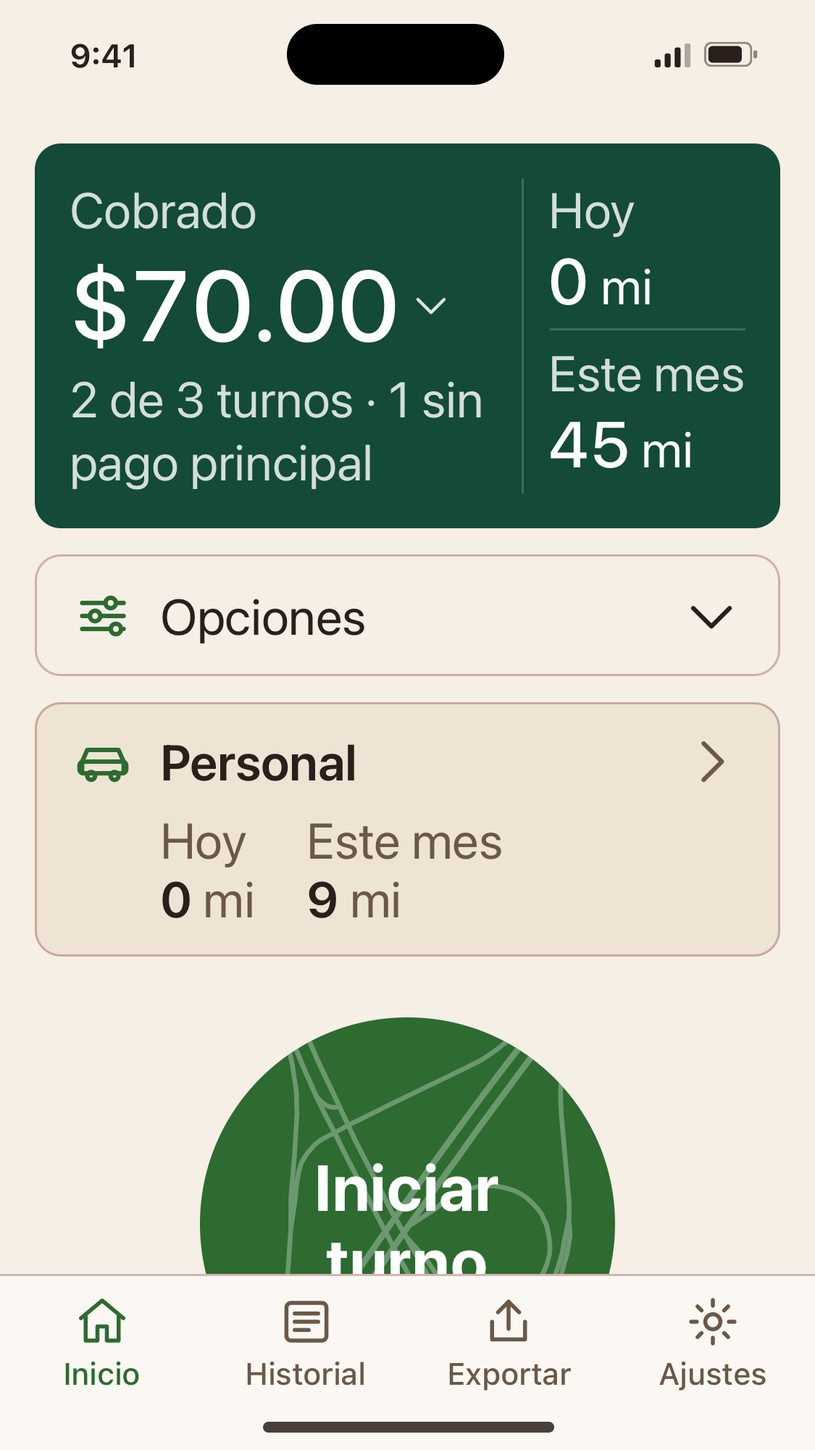
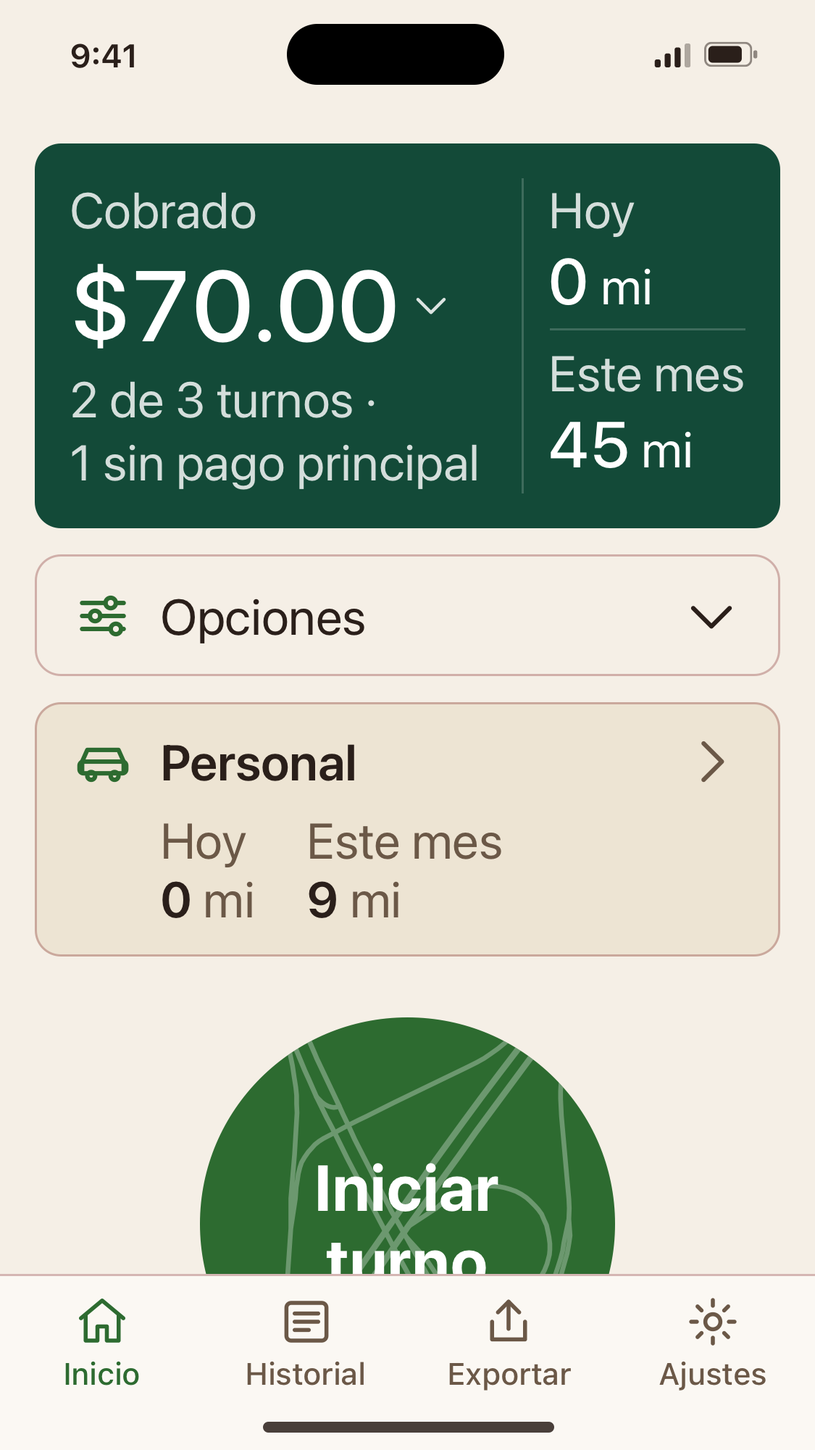
feat(design): apply the readable dark-mode green and one subtle box line to base 1
Liber approved both proposals from the base 1 pass ("Sí, los dos").

- Dark-mode action green #36853A (4.59:1 with white) as a token adjustment
  on top of V0, behind the "Verde oscuro" control (verde=legible). Base 0
  keeps #3F9442 from TOKENS-BASE.json; check-contrast checks v0+verde apart.
- The active-shift map, the close cards and the during-shift low-power
  notice take the subtle line Home uses; fields keep the strong one
  ("Bordes" control, bordes=suave).
- Base 1 turns both on. Audit: 1680/1680 states, no failures. The other
  14 capture sets are pixel-identical. Base 1 captures regenerated; the
  6 Nov ones predated the «principal» fix.

Changed region(s): [[0.0622, 0.2479, 0.5911, 0.3408], [0.4667, 0.2479, 0.4978, 0.2789]]

diff --git a/prototype/js/lab.js b/prototype/js/lab.js
@@ -9,9 +9,11 @@
   // Type scale. `lab` is this lab's iOS-like scale (15 and 13 px secondary text); `app` is what the shipped app uses:
   // only body 17, title2 22 and largeTitle 34 (SPEC's three sizes), so secondary text is 17 px there.
   const TIPO = { lab: 'Laboratorio', app: 'App · tres tamaños' };
+  const VERDE = { app: 'App · #3F9442', legible: 'Legible · #36853A' };
+  const BORDES = { app: 'App · dos líneas', suave: 'Una línea suave' };
   // Base 1: every Home piece Liber chose on top of the shipped app (base 0), with no festive decoration.
   // `base=1` in the link opens it whole; changing any of these controls leaves the base.
-  const BASE1 = { family: 'v0', home: 'sintitulo', card: 'c', bd: 'propuesta', opts: 'propuesta', personal: 'a', vivo: 'tablero', circ: 'fondo-corte', avisos: 'b', recientes: 'd', turno: 'b', cierre: 'a', tipo: 'app', deco: 'none' };
+  const BASE1 = { family: 'v0', home: 'sintitulo', card: 'c', bd: 'propuesta', opts: 'propuesta', personal: 'a', vivo: 'tablero', circ: 'fondo-corte', avisos: 'b', recientes: 'd', turno: 'b', cierre: 'a', tipo: 'app', verde: 'legible', bordes: 'suave', deco: 'none' };
   const isBase1 = (L) => Object.entries(BASE1).every(([k, v]) => L[k] === v);
   const HOME = {
     original: ['Original', 'con «Earnly Driver»'],
@@ -135,6 +137,8 @@
     if (TURNO[h.get('turno')]) L.turno = h.get('turno');
     if (CIERRE[h.get('cierre')]) L.cierre = h.get('cierre');
     if (TIPO[h.get('tipo')]) L.tipo = h.get('tipo');
+    if (VERDE[h.get('verde')]) L.verde = h.get('verde');
+    if (BORDES[h.get('bordes')]) L.bordes = h.get('bordes');
     if (['light', 'dark'].includes(h.get('theme'))) L.theme = h.get('theme');
     if (['en', 'es'].includes(h.get('lang'))) L.lang = h.get('lang');
     if (E.SCENARIOS[h.get('scenario')]) L.scenario = h.get('scenario');
@@ -156,7 +160,7 @@
       history.replaceState(null, '', '#' + b.toString());
       return;
     }
-    const h = new URLSearchParams({ view: L.view, family: L.family, b: L.familyB, home: L.home, card: L.card, cards: L.cards, desglose: L.bd, opciones: L.opts, personal: L.personal, personales: L.personals, vivo: L.vivo, circulo: L.circ, avisos: L.avisos, recientes: L.recientes, turno: L.turno, cierre: L.cierre, tipo: L.tipo, theme: L.theme, lang: L.lang, scenario: L.scenario, screen: screenId, width: L.width, text: L.textScale, deco: L.deco, motion: L.motion });
+    const h = new URLSearchParams({ view: L.view, family: L.family, b: L.familyB, home: L.home, card: L.card, cards: L.cards, desglose: L.bd, opciones: L.opts, personal: L.personal, personales: L.personals, vivo: L.vivo, circulo: L.circ, avisos: L.avisos, recientes: L.recientes, turno: L.turno, cierre: L.cierre, tipo: L.tipo, verde: L.verde, bordes: L.bordes, theme: L.theme, lang: L.lang, scenario: L.scenario, screen: screenId, width: L.width, text: L.textScale, deco: L.deco, motion: L.motion });
     if (L.solo) h.set('solo', '1');
     if (L.tall) h.set('tall', '1');
     history.replaceState(null, '', '#' + h.toString());
@@ -182,6 +186,8 @@
     $('c-turno').value = L.turno;
     $('c-cierre').value = L.cierre;
     $('c-tipo').value = L.tipo;
+    $('c-verde').value = L.verde;
+    $('c-bordes').value = L.bordes;
     $('c-theme').value = L.theme;
     $('c-lang').value = L.lang;
     $('c-scenario').value = L.scenario;
@@ -260,7 +266,7 @@
       return `
       <section class="frame-col" aria-label="${name}" style="--w:${L.width}px">
         ${L.solo ? '' : `<div class="frame-head"><strong>${name}</strong><span>${summary}</span></div>`}
-        <div class="phone" style="--w:${L.width}px; --h:${L.tall ? 2200 : HEIGHT[L.width]}px" data-slot="${i}" data-family="${f}" data-home="${home}" data-card="${card}" data-bd="${bd}" data-opts="${opt}" data-personal="${per}" data-vivo="${vivo}" data-circ="${circ}" data-avisos="${aviso}" data-recientes="${rec}" data-turno="${tur}" data-cierre="${cie}" data-tipo="${L.tipo}">
+        <div class="phone" style="--w:${L.width}px; --h:${L.tall ? 2200 : HEIGHT[L.width]}px" data-slot="${i}" data-family="${f}" data-home="${home}" data-card="${card}" data-bd="${bd}" data-opts="${opt}" data-personal="${per}" data-vivo="${vivo}" data-circ="${circ}" data-avisos="${aviso}" data-recientes="${rec}" data-turno="${tur}" data-cierre="${cie}" data-tipo="${L.tipo}" data-verde="${L.verde}" data-bordes="${L.bordes}">
           <div class="app" data-family="${f}" data-theme="${L.theme}"></div>
         </div>
       </section>`;
@@ -319,6 +325,8 @@
     L.turno = $('c-turno').value;
     L.cierre = $('c-cierre').value;
     L.tipo = $('c-tipo').value;
+    L.verde = $('c-verde').value;
+    L.bordes = $('c-bordes').value;
     L.theme = $('c-theme').value;
     L.lang = $('c-lang').value;
     L.scenario = $('c-scenario').value;
@@ -331,7 +339,7 @@
       L.familyB = Object.keys(FAMS).find((f) => f !== L.family);
     }
     if (prev.scenario !== L.scenario || prevScreen !== screenId) E.jump(screenId);
-    if (prev.view !== L.view || prev.family !== L.family || prev.familyB !== L.familyB || prev.home !== L.home || prev.card !== L.card || prev.cards !== L.cards || prev.bd !== L.bd || prev.opts !== L.opts || prev.personal !== L.personal || prev.personals !== L.personals || prev.vivo !== L.vivo || prev.circ !== L.circ || prev.avisos !== L.avisos || prev.recientes !== L.recientes || prev.turno !== L.turno || prev.cierre !== L.cierre || prev.tipo !== L.tipo || prev.width !== L.width) buildStage();
+    if (prev.view !== L.view || prev.family !== L.family || prev.familyB !== L.familyB || prev.home !== L.home || prev.card !== L.card || prev.cards !== L.cards || prev.bd !== L.bd || prev.opts !== L.opts || prev.personal !== L.personal || prev.personals !== L.personals || prev.vivo !== L.vivo || prev.circ !== L.circ || prev.avisos !== L.avisos || prev.recientes !== L.recientes || prev.turno !== L.turno || prev.cierre !== L.cierre || prev.tipo !== L.tipo || prev.verde !== L.verde || prev.bordes !== L.bordes || prev.width !== L.width) buildStage();
     syncControls();
     writeHash();
     E.render();

diff --git a/prototype/js/app.js b/prototype/js/app.js
@@ -17,7 +17,7 @@
   }
 
   const state = {
-    lab: { view: 'single', family: 'v0', familyB: 'v1', home: 'original', card: 'actual', cards: 'actual,c', bd: 'actual', opts: 'actual', personal: 'actual', personals: 'actual,a,b', vivo: 'linea', circ: 'actual', avisos: 'actual', recientes: 'lab', turno: 'lab', cierre: 'lab', tipo: 'lab', theme: 'light', lang: 'en', scenario: 'partial', width: 390, textScale: 1, deco: 'none', motion: 'normal', solo: false },
+    lab: { view: 'single', family: 'v0', familyB: 'v1', home: 'original', card: 'actual', cards: 'actual,c', bd: 'actual', opts: 'actual', personal: 'actual', personals: 'actual,a,b', vivo: 'linea', circ: 'actual', avisos: 'actual', recientes: 'lab', turno: 'lab', cierre: 'lab', tipo: 'lab', verde: 'app', bordes: 'app', theme: 'light', lang: 'en', scenario: 'partial', width: 390, textScale: 1, deco: 'none', motion: 'normal', solo: false },
     data: null,
     ui: null
   };

diff --git a/prototype/index.html b/prototype/index.html
@@ -81,6 +81,12 @@
       <label>Letra
         <select id="c-tipo"><option value="lab">Laboratorio</option><option value="app">App · tres tamaños</option></select>
       </label>
+      <label>Verde oscuro
+        <select id="c-verde"><option value="app">App · #3F9442</option><option value="legible">Legible · #36853A</option></select>
+      </label>
+      <label>Bordes
+        <select id="c-bordes"><option value="app">App · dos líneas</option><option value="suave">Una línea suave</option></select>
+      </label>
       <label>Marcos
         <select id="c-personals"><option value="actual,a,b">Actual, A y B</option><option value="actual,a">Actual y A</option><option value="a,b">A y B</option></select>
       </label>

diff --git a/prototype/css/app.css b/prototype/css/app.css
@@ -821,3 +821,7 @@
   --size-footnote: var(--size-body); --size-caption: var(--size-body);
   --size-title3: var(--size-title2); --size-title1: var(--size-title2); --size-result-figure: var(--size-title2);
 }
+
+/* Base 1 (Liber, 7 nov): every box takes the subtle line Home already uses. Fields keep the strong one,
+   which a field needs (3 : 1 against its surface) to read as a field. */
+.phone[data-bordes="suave"] > .app[data-family="v0"] :is(.card, .map, .notice-card) { border-color: var(--color-card-border-subtle) !important; }

diff --git a/prototype/css/tokens.css b/prototype/css/tokens.css
@@ -301,3 +301,13 @@
   --color-tab-bar: #1B1612;
   --color-chip-bg: rgba(232,167,69,0.12);
 }
+
+/* Adjustment: Readable dark-mode green */
+.phone[data-verde="legible"] > .app[data-family="v0"] {
+  --color-action: #2D6B30;
+  --color-map-start: #2D6B30;
+}
+.phone[data-verde="legible"] > .app[data-family="v0"][data-theme="dark"] {
+  --color-action: #36853A;
+  --color-map-start: #36853A;
+}

diff --git a/prototype/BASE-1.md b/prototype/BASE-1.md
@@ -1,6 +1,6 @@
 # Base 1: la pasada final de Inicio
 
-6 nov 2026. Rama `design/home-sin-titulo-2026-10-27`.
+6 nov 2026; el 7 nov Liber aprobó el verde en oscuro y la línea suave. Rama `design/home-sin-titulo-2026-10-27`.
 
 - **Base 0:** la app publicada (2.0.3).
 - **Base 1:** todo lo que Liber eligió encima de la base 0. Es una base fija y no lleva ninguna decoración de fiestas.
@@ -29,6 +29,8 @@ En el laboratorio, «tokens» también son los colores y radios de `design-token
 | Turno en curso | B sin «Trackeando», sin cambio de espacio | [HOME-TURNO-ACTIVO.md](HOME-TURNO-ACTIVO.md) |
 | Cierre | A · Marca las apps, con la lista filtrada | [CIERRE-TURNO.md](CIERRE-TURNO.md), [CIERRE-COMBINACIONES.md](CIERRE-COMBINACIONES.md) |
 | Letra | La de la app: tres tamaños | ver abajo |
+| Verde oscuro | Legible · #36853A | ver abajo |
+| Bordes | Una línea suave; los campos, la fuerte | ver abajo |
 | Decoración | Ninguna | |
 
 ## Lo que cambia al verla junta: la letra de la app
@@ -140,25 +142,35 @@ En cada estado se comprueba:
    - En inglés, con 320 px y texto al 200 %, la palabra «undercounted.» del aviso de ahorro de batería durante el turno no cabía en la línea y empujaba el texto fuera de la caja.
    - Ahora la palabra se parte, como hace `Text` en SwiftUI.
 
-## Queda para que decidas
+## Aprobado el 7 nov: el verde y los bordes
 
-1. **El verde de los botones en oscuro.**
-   - «Listo» y «Guardar turno» llevan letra blanca sobre el verde de la app en oscuro (`ActionPositive`, #3F9442). Eso da 3,80 : 1, y el mínimo para su tamaño es 4,5 : 1.
-   - Viene de la base 0: está así en la app publicada, y el comprobador del laboratorio ya lo marcaba como heredado.
-   - **Propuesta:** #36853A en oscuro, que da 4,59 : 1. El claro, #2D6B30, no cambia.
-   - Sería un color nuevo en la app, en iOS y Android, con su fila en PARITY.md. No se ha tocado.
-2. **Dos grosores de borde.**
-   - Las cajas de Inicio y la tarjeta del turno en curso llevan la línea suave: el granate al 30 %.
-   - El mapa del turno en curso y las tarjetas del cierre llevan la línea fuerte de la base 0.
-   - En la pantalla del turno se ven juntas: la tarjeta con línea suave y el mapa, justo debajo, con la fuerte.
-   - **Propuesta:** línea suave en el mapa y en las tarjetas del cierre. Los campos donde se escribe mantienen la fuerte, porque un campo necesita al menos 3 : 1 para verse como campo. No se ha tocado.
-3. **Observaciones, sin propuesta de cambio:**
-   - **En el SE, durante un viaje personal,** el círculo queda cortado por las pestañas: se ve la mitad de arriba y se puede tocar. Para que entrara habría que quitar unos 60 px de arriba, más de lo que se gana achicando el círculo.
-   - **En el cierre, la pregunta del cobro va debajo del resumen del turno,** igual que en la app. En el SE se ve el resumen y el principio de la pregunta. Si se quisiera la pregunta primero, sería cambiar el orden de la base 0.
+Liber aprobó las dos propuestas de la pasada. Cada una tiene su control en el laboratorio, como la letra, para comparar con la app publicada. La base 1 las trae puestas y la base 0 sigue igual.
+
+1. **El verde de los botones en oscuro** (control «Verde oscuro → Legible · #36853A», `verde=legible`).
+   - En oscuro, «Listo» y «Guardar turno» llevaban letra blanca sobre #3F9442: 3,80 : 1, por debajo del 4,5 : 1 que pide su tamaño. Venía de la base 0.
+   - El círculo «Iniciar turno» usa el mismo verde. Con su letra grande ya pasaba (3 : 1), y ahora tiene más margen.
+   - Ahora el verde es #36853A en oscuro: 4,59 : 1. El claro, #2D6B30, no cambia (6,45 : 1).
+   - El punto de salida del mapa usa el mismo verde en la app (`ActionPositive`), así que también cambia.
+   - Sobre las tarjetas, el verde como icono o contorno queda en 3,33 : 1; para gráficos el mínimo es 3 : 1.
+   - Está en `design-tokens.json`, en `adjustments.verde`. El comprobador de contraste lo revisa aparte («v0+verde»), sin la excepción de lo heredado.
+2. **Una sola línea para las cajas** (control «Bordes → Una línea suave», `bordes=suave`).
+   - Ahora llevan la línea suave de Inicio (el granate al 30 %):
+     - el mapa del turno en curso;
+     - las tarjetas del cierre: resumen, cobro, resultado y estación;
+     - el aviso de batería baja durante el turno. No estaba en la propuesta, pero va en la misma pantalla, entre la tarjeta y el mapa. Sin él, volvían a verse las dos líneas juntas.
+   - **Los campos donde se escribe mantienen la fuerte,** porque un campo necesita al menos 3 : 1 para verse como campo. También los botones secundarios y las casillas de la lista de apps, que llevan su propio color.
+   - Revisado en las 35 pantallas: la línea fuerte ya solo queda en los campos.
+
+**Observaciones, sin propuesta de cambio:**
+
+- **En el SE, durante un viaje personal,** el círculo queda cortado por las pestañas: se ve la mitad de arriba y se puede tocar. Para que entrara habría que quitar unos 60 px de arriba, más de lo que se gana achicando el círculo.
+- **En el cierre, la pregunta del cobro va debajo del resumen del turno,** igual que en la app. En el SE se ve el resumen y el principio de la pregunta. Si se quisiera la pregunta primero, sería cambiar el orden de la base 0.
 
 ## Comprobación
 
-- **Auditoría:** 1680 de 1680 estados aplicados. El único fallo que queda, en 88 estados, es el verde de los botones en oscuro: oscuro, texto al 100 %, «Listo» y «Guardar turno». Es el punto 1 de arriba.
+- **Auditoría:** 1680 de 1680 estados aplicados.
+  - **6 nov:** el único fallo, en 88 estados, era el verde de los botones en oscuro: oscuro, texto al 100 %, «Listo» y «Guardar turno».
+  - **7 nov, con el verde y los bordes aprobados:** ningún fallo en los 1680 estados.
 - **Control negativo:** 10 de 10.
   - Ocho errores metidos a propósito se detectaron con el mensaje previsto:
     - una página más ancha que la pantalla;
@@ -176,13 +188,19 @@ En cada estado se comprueba:
     - a 320 px ahora se parte por el punto;
     - en una línea, el espacio tras el punto se mueve menos de 1 px.
   - Las capturas guardadas de esas vistas no se regeneraron, porque son historial.
-- **Tokens, contraste y SHA256SUMS:** sin cambios. El contraste solo marca el verde heredado de la base 0. `screens/`, `screens.json`, `TOKENS-BASE.json` y `SHA256SUMS` no se tocaron.
+  - **7 nov:** las 150 capturas de las otras 14 vistas, generadas otra vez con el verde y los bordes nuevos, salen idénticas píxel a píxel. Los dos ajustes solo actúan en la base 1.
+- **Tokens, contraste y SHA256SUMS:**
+  - Los tokens solo cambian por el ajuste nuevo; la base 0 sigue igual que `TOKENS-BASE.json`.
+  - El contraste solo marca el verde heredado de la base 0. El ajuste da 4,59 : 1 en oscuro.
+  - SHA256SUMS: 91 de 91. `screens/`, `screens.json`, `TOKENS-BASE.json` y `SHA256SUMS` no se tocaron.
 - **No se ejecutó** `check-ui.cjs` (Chromium), porque Playwright no está instalado. La auditoría de WebKit lo sustituye.
 - **No probado:** iOS, Apple Maps real, VoiceOver, Dynamic Type real ni la tipografía SF exacta. El navegador aproxima.
 
 ## Capturas
 
 En `captures/home-base-1/`; se regeneran con `swift prototype/tools/capture-home-webkit.swift base-1`.
+
+Se regeneraron el 7 nov, con el verde y los bordes. Las del 6 nov se habían hecho antes de corregir «principal» y lo seguían mostrando solo en su línea; las de ahora ya llevan la corrección.
 
 - **Inicio a 390:** claro y oscuro.
 - **Inicio en el SE:** con texto al 100 % y al 135 %.
@@ -200,7 +218,9 @@ En `captures/home-base-1/`; se regeneran con `swift prototype/tools/capture-home
   - los avisos con `Text`, que ya parte las palabras largas;
   - el resto de cada pieza está en su documento.
 - **Lo que no cambia:** la letra ya es la de la app (cuerpo, título 2 y título grande), así que no hay tamaños nuevos.
-- **Los colores:** solo si Liber aprueba el verde en oscuro y los bordes suaves.
+- **Los colores, aprobados por Liber:**
+  - `ActionPositive` en oscuro pasa a #36853A, en iOS (`Assets.xcassets`) y en Android (`colors.xml`) a la vez; el claro no cambia;
+  - el mapa del turno y las tarjetas del cierre pasan a la línea suave que ya usa Inicio; los campos siguen con la fuerte.
 - **Lo de siempre:**
   - SPEC §4.3 (Inicio), §4.4 (turno en curso) y §4.5 (cierre);
   - PARITY.md y su `docs/parity`;

diff --git a/prototype/README.md b/prototype/README.md
@@ -14,7 +14,7 @@ Este es un laboratorio navegable en HTML, CSS y JavaScript con datos sintéticos
 | Control | Qué hace |
 |---|---|
 | Vista | Muestra una familia, compara dos lado a lado, enseña las cuatro con la misma pantalla y los mismos datos, «Original y Sin título»: la misma familia dos veces, con y sin el rótulo de Inicio, «Tarjeta verde»: la tarjeta actual y C, «Tarjeta abierta»: el desglose de C actual y la propuesta, «Opciones»: Opciones actual y la propuesta, «Personal»: la fila Personal actual, A y B, «Personal en marcha»: tres formas de mostrar un viaje personal en curso, «Iniciar turno»: el círculo actual y el Fondo, «Contraste en oscuro»: el Fondo, Corte y Tenue, «Avisos»: los avisos de hoy y las propuestas A, B y C, «Recientes»: la tarjeta de la app y las propuestas A, B, C y D, «Turno activo»: la pantalla del turno en curso de la app y las propuestas A, B y C, «Turno activo · espacio de B»: B, Mapa con tope y Más junto, o «Cierre del turno»: el cierre de la app y las propuestas A, B y C |
-| Base | «Base 1 (elegida)» pone de una vez todo lo elegido en Inicio, el turno en curso y el cierre, con la letra de la app y sin decoración (`base=1` en el enlace). Al cambiar cualquier pieza pasa a «A medida»; ver [BASE-1.md](BASE-1.md) |
+| Base | «Base 1 (elegida)» pone de una vez todo lo elegido en Inicio, el turno en curso y el cierre, con la letra de la app, el verde legible en oscuro, una sola línea suave y sin decoración (`base=1` en el enlace). Al cambiar cualquier pieza pasa a «A medida»; ver [BASE-1.md](BASE-1.md) |
 | Familia / Comparar con | V0 Actual, V1 Esencial, V2 Claridad, V3 Estudio |
 | Inicio | Original o Sin título (sin «Earnly Driver» arriba). Solo afecta a Inicio; ver [HOME-SIN-TITULO.md](HOME-SIN-TITULO.md) |
 | Tarjeta / Tarjetas | Tarjeta verde de Inicio: la actual o C · Dos zonas (solo V0). La vista «Tarjeta verde» las pone lado a lado con Inicio sin título; ver [HOME-TARJETA-VERDE.md](HOME-TARJETA-VERDE.md) |
@@ -32,6 +32,8 @@ Este es un laboratorio navegable en HTML, CSS y JavaScript con datos sintéticos
 | Pantalla | Salta a uno de los estados de ejemplo, incluidos los cuatro de viaje personal en marcha (con Personal A) y los de avisos (sin avisos, ubicación apagada, ahorro de batería, dos avisos y Personal sin Movimiento) y el último turno sin ruta, y los del turno en curso (en marcha, buscando ubicación, ahorro de batería, turno largo y la pregunta de terminar), y los del cierre con otras apps y con un turno de Uber. Después se puede navegar normalmente por la app |
 | Ancho | 320 px (solo prueba), 375 × 667 (iPhone SE, el más pequeño de iOS 18), 390 o 430 px |
 | Letra | Laboratorio (por defecto; textos secundarios a 15 px) o App · tres tamaños: cuerpo 17, título 2 22 y título grande 34, como la app publicada (`tipo=app`; la base 1 la usa) |
+| Verde oscuro | App · #3F9442 (por defecto) o Legible · #36853A: el verde de los botones en oscuro, 4,59 : 1 con letra blanca (`verde=legible`; la base 1 lo usa). Solo en V0 |
+| Bordes | App · dos líneas (por defecto) o Una línea suave: el mapa del turno, las tarjetas del cierre y el aviso del turno toman la línea suave de Inicio; los campos siguen con la fuerte (`bordes=suave`; la base 1 la usa). Solo en V0 |
 | Texto | 100 %, 135 % o 200 %. Aproxima Dynamic Type/AX; no equivale a iOS |
 | Decoración | Muestra opcional de Halloween o Navidad. Está apagada por defecto y no tapa controles |
 

diff --git a/prototype/DECISIONES.md b/prototype/DECISIONES.md
@@ -21,7 +21,7 @@ Las cuatro familias comparten datos, textos, navegación y componentes. Cada una
 1. **Tokens.** `design-tokens.json` es el maestro editable. `base` reproduce exactamente `TOKENS-BASE.json`, y el generador **falla** si V0 se aparta de la referencia. Los roles nuevos del laboratorio llevan `$lab` con su motivo. `AccentColor` sigue sin asignar: no se le inventó valor.
 2. **Granate ≠ destructivo, desde V1.** En la referencia, `brandBorder` y `actionDestructive` son el mismo granate, así que todas las tarjetas parecen avisos y «Mover a la papelera» no destaca. V1 y V3 quitan el borde de las tarjetas y V2 usa un gris cálido. El granate queda para lo destructivo y para los errores.
 3. **Contraste de enlaces.** La referencia pinta enlaces y la pestaña activa en `accentPositive` pálido sobre crema (≈1.8:1). En todas las familias, V0 incluida, el enlace usa `actionPositive` en claro y `accentPositive` en oscuro (≥4.5:1). Es la única corrección de color aplicada a V0, porque es un defecto, no identidad.
-4. **Hallazgo que se conserva en V0.** El botón verde en oscuro (`actionPositive` dark `#3F9442` con texto blanco) da 3.80:1, por debajo de 4.5:1 para texto de 17 px. V0 lo conserva para seguir siendo fiel a `TOKENS-BASE.json`, y `check-contrast.mjs` lo marca como `V0*`. V1 y V3 usan `#337F38` (4.96:1) y V2 `#2F7A45` (5.26:1). **Recomendación para la app real:** oscurecer ese verde.
+4. **Hallazgo que se conserva en V0.** El botón verde en oscuro (`actionPositive` dark `#3F9442` con texto blanco) da 3.80:1, por debajo de 4.5:1 para texto de 17 px. V0 lo conserva para seguir siendo fiel a `TOKENS-BASE.json`, y `check-contrast.mjs` lo marca como `V0*`. V1 y V3 usan `#337F38` (4.96:1) y V2 `#2F7A45` (5.26:1). **Recomendación para la app real:** oscurecer ese verde. El 7 nov de 2026 Liber aprobó `#36853A` (4.59:1) para la base 1, como ajuste encima de V0 (`adjustments.verde` en `design-tokens.json`, `verde=legible`); V0 sigue fiel a la referencia. Ver [BASE-1.md](BASE-1.md).
 5. **Errores en oscuro.** `#A0413B` sobre el fondo oscuro da ≈2.9:1. Los textos de error y destructivos usan `#E8857C` en oscuro.
 6. **«Parcial» se ve.** Un pago incompleto lleva un chip con borde discontinuo ámbar y texto normal, además de la frase de la referencia, para no depender solo del texto ni del color. Las cifras demasiado grandes no se marcan como parciales: muestran «—» y su frase.
 7. **Una acción principal por pantalla.** V1–V3 eligen el PDF como acción principal de Exportar y dejan el CSV como secundaria. Es una suposición: el resumen fiscal parece el uso más frecuente. Si los datos de uso dicen lo contrario, basta con invertirlos.

diff --git a/prototype/HANDOFF.md b/prototype/HANDOFF.md
@@ -270,11 +270,17 @@ Detalle completo en [BASE-1.md](BASE-1.md).
   - controles de al menos 44 × 44, ninguno montado sobre otro, nada que se arrastre de lado;
   - «Terminar turno» y «Listo» siempre visibles en la zona del pulgar.
 - **Corregido:** «principal» sola en la tarjeta verde (ahora se parte por el punto) y un aviso que se salía de su caja a 320 px y 200 %.
-- **Para que Liber decida:**
+- **Propuesto a Liber el 6 nov:**
   - el verde de los botones en oscuro: 3,80 : 1, heredado de la base 0; propuesta #36853A;
   - los dos grosores de borde: propuesta, línea suave en el mapa del turno y en las tarjetas del cierre.
 - **Comprobación:** auditoría sin más fallo que el verde heredado; control negativo 10 de 10; las demás capturas solo cambian en esa línea de la tarjeta C. `check-ui.cjs` no corrió (sin Playwright).
-- **Siguiente paso:** que Liber revise la base 1 y decida el verde y los bordes; después, la base 2 con la Navidad. Nada pasa a SwiftUI.
+- **7 nov, aprobado por Liber: «Sí, los dos».**
+  - El verde de los botones en oscuro pasa a #36853A (4,59 : 1). Está en `design-tokens.json` → `adjustments.verde`, con el control «Verde oscuro» (`verde=legible`).
+  - Una sola línea suave para las cajas: el mapa del turno, las tarjetas del cierre y el aviso de batería del turno, que no estaba en la propuesta y va en la misma pantalla. Los campos siguen con la fuerte. Control «Bordes» (`bordes=suave`).
+  - La base 1 trae los dos puestos; la base 0 y las demás vistas no cambian.
+  - Comprobado: 1680 de 1680 estados sin ningún fallo; las 150 capturas de las otras vistas, idénticas píxel a píxel; tokens, contraste y SHA256SUMS bien.
+  - Las capturas de la base 1 se regeneraron. Las del 6 nov se habían hecho antes de corregir «principal».
+- **Siguiente paso:** la base 2 con la Navidad, encima de la base 1. Nada pasa a SwiftUI.
 
 ## Cómo continuar
 
